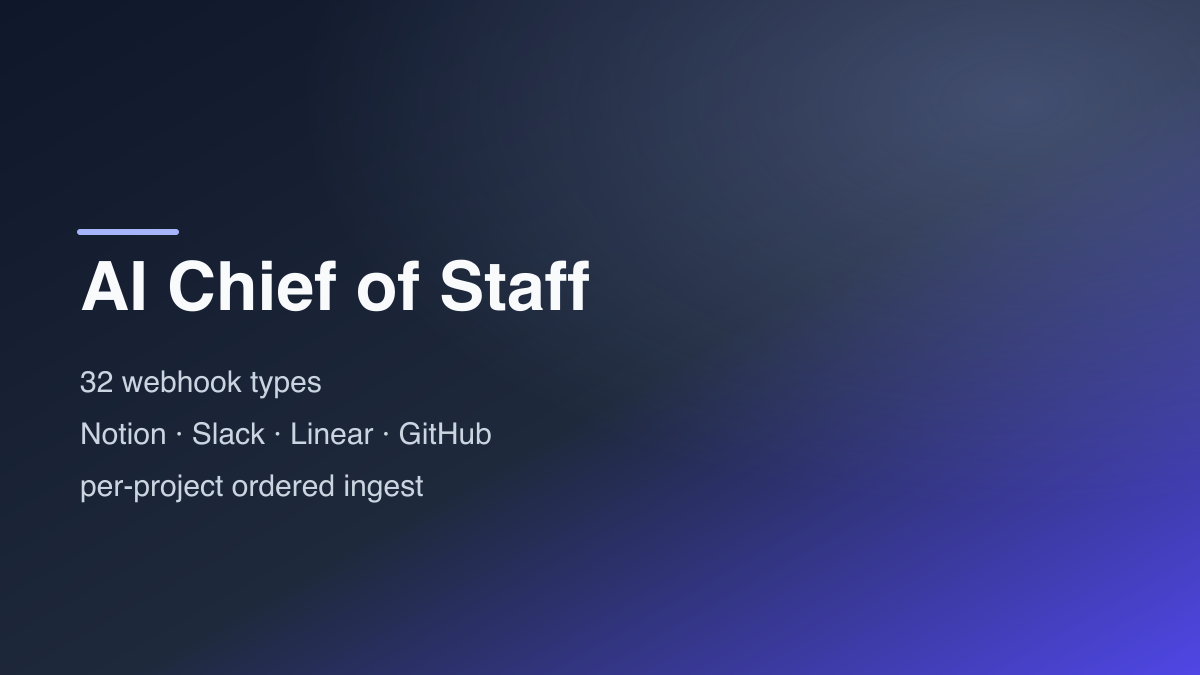
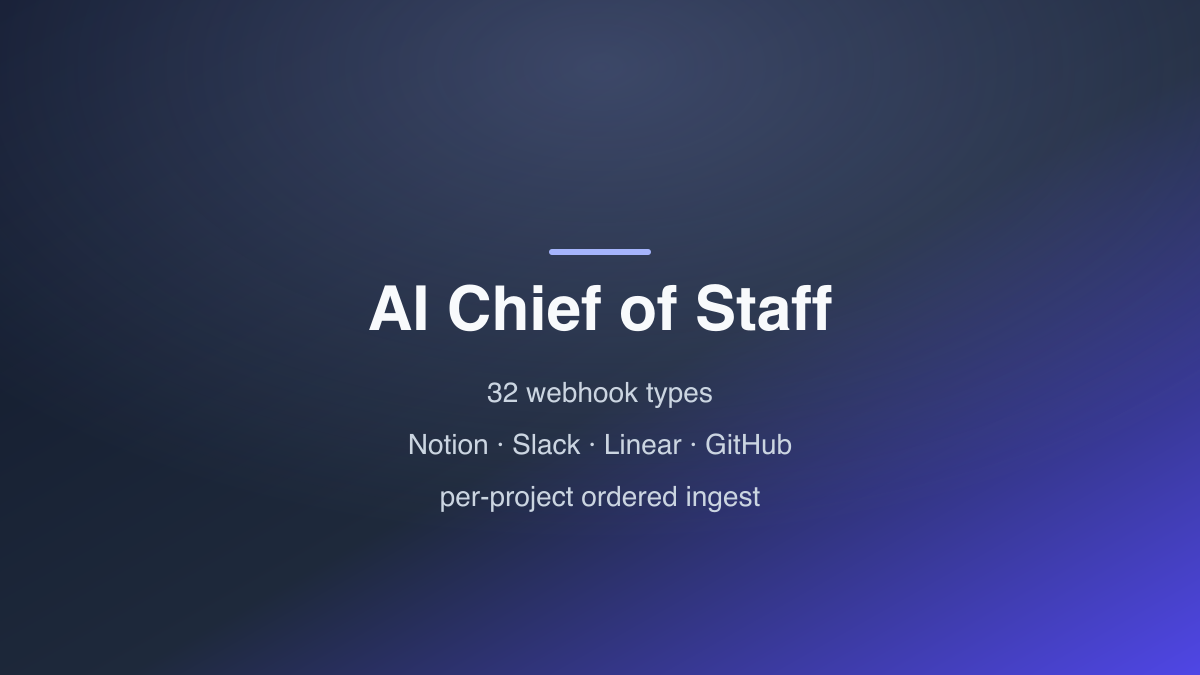
feat(genres): sticker cloud, and fix what widening the container broke
Genres card
- It was the fifth horizontal bar chart in one section, which is why it
  read as filler. Now a cloud of sized, tilted stickers — the board
  metaphor the page is already built on (pushpins, polaroids, a shelf
  rail) suits weighted labels far better than another bar, and it
  stops implying a precision this data does not have.
- Sizes and tilts are pure functions of `share` with a fixed tilt
  cycle, not Math.random, so server and client render identically.

Regressions from the 5xl -> 7xl widening
- Map entry buttons were inline-sized inside full-width PinCards, so
  they floated at half width with ~800px of dead space beside them.
  The entry list now sits beside the map instead of under it, which
  uses the width and stops the map being a wall of empty ocean.
- Generated covers put their text at x=80, and object-cover crops from
  both edges — the hero card rendered "...native Data Pipeline".
  Centred inside a safe zone.
- mapData still said "Freelance SWE / Comic Book Grading App" while the
  sidebar said ComicScore. One job, one name.

diff --git a/components/SpotifyGenresCard.jsx b/components/SpotifyGenresCard.jsx
@@ -1,13 +1,40 @@
 import StaleBadge from '@/components/ui/StaleBadge';
 
 /**
- * Rank-weighted genre chart derived from the top-artists list.
+ * Genre chart as a cloud of stickers rather than another bar chart.
  *
- * Spotify exposes no "top genres" for a user, so `share` is each genre's
- * weight relative to the leader — not a share of listening time, which this
- * data cannot support. The caption says so rather than letting the bars imply
- * a precision that is not there.
+ * The about section already had four horizontal bar charts; a fifth read as
+ * filler. The board metaphor the page is built on — pushpins, polaroids, a
+ * shelf rail — suits sized-and-rotated labels far better, and a sticker cloud
+ * carries relative weight without pretending to a precision this data does not
+ * have (Spotify exposes no per-user genre listening time; weight is derived
+ * from where the artists carrying a genre sit in the top-artists ranking).
+ *
+ * Everything here is a pure function of `share`, so the layout is identical on
+ * the server and the client — no randomness, no hydration mismatch.
  */
+
+// Warm, board-ish palette. Ordered so the leader gets the strongest colour and
+// the tail fades into paper, which does the ranking work without numbers.
+const STICKERS = [
+  'bg-teal-600 text-white border-teal-700/40',
+  'bg-amber-200 text-amber-950 border-amber-400/50',
+  'bg-indigo-500 text-white border-indigo-600/40',
+  'bg-rose-200 text-rose-950 border-rose-400/50',
+  'bg-stone-200 text-stone-800 border-stone-400/50',
+  'bg-emerald-200 text-emerald-950 border-emerald-500/40',
+];
+
+// Deterministic per-position tilt — a fixed cycle, not Math.random().
+const TILTS = [-3.5, 2.5, -1.5, 3, -2.5, 1.5];
+
+function sizeFor(share) {
+  // Map weight onto a type ramp. Floors at 12px so the tail stays legible;
+  // the leader lands near 30px, which is big enough to read as a headline.
+  const t = Math.max(0, Math.min(1, share / 100));
+  return 12 + t * 18;
+}
+
 export default function SpotifyGenresCard({ genres = [], window: windowLabel, staleness }) {
   if (!genres.length) return null;
 
@@ -23,29 +50,30 @@ export default function SpotifyGenresCard({ genres = [], window: windowLabel, st
         <StaleBadge staleness={staleness} />
       </div>
 
-      <ul className="mt-3 space-y-2">
+      <ul className="mt-4 flex flex-wrap items-center justify-center gap-x-2 gap-y-2.5 px-1 pb-1">
         {genres.map((genre, i) => (
           <li key={genre.name}>
-            <div className="flex items-baseline justify-between gap-2 text-[11px]">
-              <span className="min-w-0 truncate font-medium text-slate-700 dark:text-slate-200">
-                {genre.name}
-              </span>
-              <span className="flex-none tabular-nums text-slate-500 dark:text-slate-400">
-                #{i + 1}
-              </span>
-            </div>
-            <span className="mt-1 block h-1.5 overflow-hidden rounded-full bg-slate-100 dark:bg-slate-800">
-              <span
-                className="block h-full rounded-full bg-emerald-500 dark:bg-emerald-400"
-                style={{ width: `${Math.max(4, genre.share)}%` }}
-              />
+            <span
+              className={[
+                'inline-block rounded-full border px-3 py-1 font-semibold leading-tight',
+                'shadow-sm transition-transform duration-200 hover:!rotate-0 hover:scale-105',
+                'motion-reduce:!rotate-0',
+                STICKERS[i % STICKERS.length],
+              ].join(' ')}
+              style={{
+                fontSize: `${sizeFor(genre.share).toFixed(1)}px`,
+                transform: `rotate(${TILTS[i % TILTS.length]}deg)`,
+              }}
+              title={`${genre.name} — ${genre.share}% of my top genre's weight`}
+            >
+              {genre.name}
             </span>
           </li>
         ))}
       </ul>
 
-      <p className="mt-3 text-[10px] text-slate-500 dark:text-slate-400">
-        weighted by artist rank, relative to the top genre
+      <p className="mt-3 text-center text-[10px] text-slate-500 dark:text-slate-400">
+        bigger = more of what i actually played
       </p>
     </div>
   );

diff --git a/components/MapSection.jsx b/components/MapSection.jsx
@@ -75,21 +75,25 @@ export default function MapSection() {
           ))}
         </div>
 
-        {/* Map */}
-        <PinMap
-          pins={pins}
-          activePin={activePin}
-          onPinHover={handlePinHover}
-          onPinClick={handlePinClick}
-        />
+        <div className="lg:flex lg:items-start lg:gap-5">
+          <div className="min-w-0 lg:flex-1">
+            <PinMap
+              pins={pins}
+              activePin={activePin}
+              onPinHover={handlePinHover}
+              onPinClick={handlePinClick}
+            />
+          </div>
 
-        {/* Entry list */}
-        <MapEntryList
-          pins={pins}
-          activePin={activePin}
-          onEntryClick={handleEntryClick}
-          onEntryHover={handleEntryHover}
-        />
+          <div className="lg:w-[22rem] lg:flex-none">
+            <MapEntryList
+              pins={pins}
+              activePin={activePin}
+              onEntryClick={handleEntryClick}
+              onEntryHover={handleEntryHover}
+            />
+          </div>
+        </div>
       </Pinboard>
     </Section>
   );

diff --git a/lib/mapData.js b/lib/mapData.js
@@ -35,7 +35,7 @@ export const WORK_PINS = [
   { org: 'NExT Consulting', role: 'SWE Co-op', location: 'Boston, MA', period: 'Fall 2025', img: '/logos/normalized/next-logo.png' },
   { org: 'General Dynamics Electric Boat', role: 'SDE Co-op', location: 'Groton, CT', period: '2024', img: '/logos/normalized/gdeb-logo.png' },
   { org: 'DISA', role: 'Admin Assistant', location: 'Fort Meade, MD', period: '2023', img: '/logos/normalized/disa-logo.png' },
-  { org: 'Freelance SWE', role: 'Comic Book Grading App', location: 'New York, NY', period: 'Jan – Jun 2026', emoji: '💼' },
+  { org: 'ComicScore', role: 'Software Engineer (Freelance)', location: 'New York, NY', period: 'Jan – Jun 2026', emoji: '💼' },
 ];
 
 export const EDUCATION_PINS = [

diff --git a/components/MapEntryList.jsx b/components/MapEntryList.jsx
@@ -26,7 +26,7 @@ export default function MapEntryList({ pins = [], activePin, onEntryClick, onEnt
               onMouseEnter={() => onEntryHover(pin)}
               onMouseLeave={() => onEntryHover(null)}
               className={[
-                'flex items-center gap-3 rounded-lg px-3 py-2.5 text-left transition-all duration-200',
+                'flex w-full items-center gap-3 rounded-lg px-3 py-2.5 text-left transition-all duration-200',
                 isActive
                   ? 'border-2 bg-white shadow-sm dark:bg-stone-800'
                   : 'border border-stone-200 bg-white hover:border-stone-300 hover:shadow-sm dark:border-stone-700 dark:bg-stone-800 dark:hover:border-stone-600',
